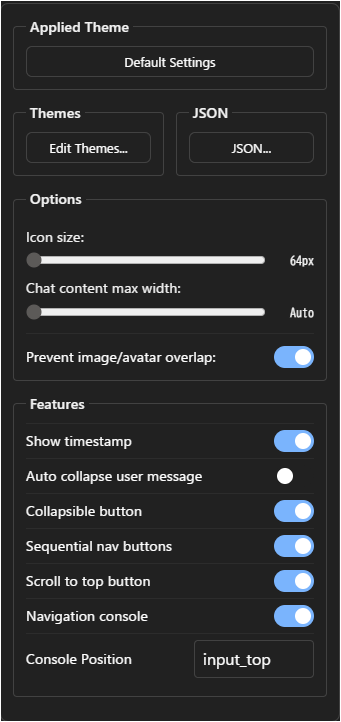
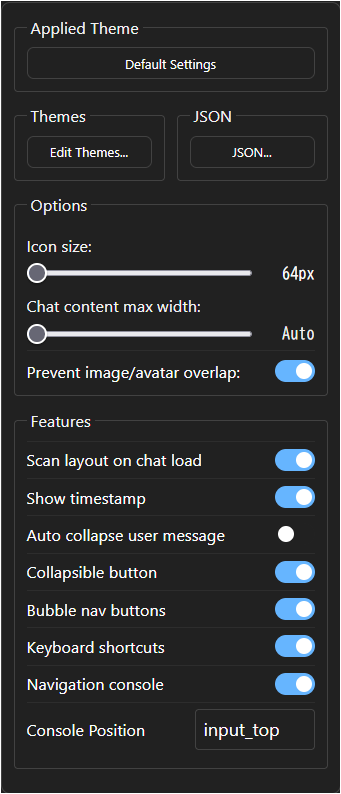
docs: update files for [AIUXC] (Shortcuts / JSON Settings)

diff --git a/docs/AI-UX-Customizer/manual_json.md b/docs/AI-UX-Customizer/manual_json.md
@@ -31,12 +31,18 @@ The following is a sample to illustrate the JSON structure. **Ready-to-use sampl
         "respect_avatar_space": true
       },
       "features": {
-        "collapsible_button": { "enabled": true },
-        "auto_collapse_user_message": { "enabled": false },
-        "bubble_nav_buttons": { "enabled": true },
-        "fixed_nav_console": { "enabled": true, "position": "input_top" },
         "load_full_history_on_chat_load": { "enabled": true },
-        "timestamp": { "enabled": true }
+        "timestamp": { "enabled": true },
+        "collapsible_button": {
+          "enabled": true,
+          "auto_collapse_user_message": { "enabled": false }
+        },
+        "bubble_nav_buttons": { "enabled": true },
+        "fixed_nav_console": {
+          "enabled": true,
+          "position": "input_top",
+          "keyboard_shortcuts": { "enabled": true }
+        }
       },
       "defaultSet": {
         "user": {
@@ -169,12 +175,13 @@ Configure ON/OFF and thresholds for convenient UI improvement features.
 
 | Property Name | Description | Example | Notes/Allowed Values |
 | --- | --- | --- | --- |
-| `auto_collapse_user_message` | **[ChatGPT only]**<br>Automatically collapses user messages that exceed the height threshold upon loading. | `{ "enabled": false }` | `true`/`false`<br>Default is `false`.<br>Requires `collapsible_button` to be enabled. |
+| `load_full_history_on_chat_load` | `ChatGPT` (Firefox only)<br>Enables "layout scan and rescan DOM" on chat load.<br>`Gemini`<br>Enables auto-load full chat history on chat load.  | `{ "enabled": true }` | `true`/`false`<br>`ChatGPT`<br>Automatically scans the chat layout when opening a chat (Firefox only. See notes below.).<br>`Gemini`<br>Automatically loads the entire chat history when opening a chat.  |
+| `timestamp` | `ChatGPT` **[ChatGPT only]**<br>Displays the creation time for each message. | `{ "enabled": true }` | `true`/`false`<br>`ChatGPT` only.<br>This feature is not available for Gemini as it is technically difficult to retrieve timestamps. |
 | `collapsible_button` | Displays a button to collapse messages at the top of each message bubble.  | `{ "enabled": true }` | `true`/`false`<br>Displays on the top-left for assistant and top-right for user.<br>Note: For Gemini, user bubbles have a standard collapse button, so this script does not process user bubbles for Gemini.<br>When this feature is enabled, a button to toggle the collapse state of all messages is displayed to the right of the message input field.  |
+| `collapsible_button.`<br>`auto_collapse_user_message` | **[ChatGPT only]**<br>Automatically collapses user messages that exceed the height threshold upon loading. | `{ "enabled": false }` | `true`/`false`<br>Default is `false`.<br>Requires `collapsible_button` to be enabled. |
 | `bubble_nav_buttons` | Displays navigation buttons (Prev/Next/Top) attached to each message bubble. | `{ "enabled": true }` | `true`/`false`<br>Displays buttons for Previous/Next/Top navigation on the message bubble. |
 | `fixed_nav_console` | Displays an integrated navigation console.  | `{ "enabled": true, "position": "input_top" }` | `true`/`false`<br>Displays a console bar consolidating navigation-related features for efficient message movement.<br>Accepted values for `position`: `"input_top"` (floating above input) or `"header"` (embedded in top bar). Default is `"input_top"`.  |
-| `load_full_history_on_chat_load` | `ChatGPT` (Firefox only)<br>Enables "layout scan and rescan DOM" on chat load.<br>`Gemini`<br>Enables auto-load full chat history on chat load.  | `{ "enabled": true }` | `true`/`false`<br>`ChatGPT`<br>Automatically scans the chat layout when opening a chat (Firefox only. See notes below.).<br>`Gemini`<br>Automatically loads the entire chat history when opening a chat.  |
-| `timestamp` | `ChatGPT` **[ChatGPT only]**<br>Displays the creation time for each message. | `{ "enabled": true }` | `true`/`false`<br>`ChatGPT` (ChatGPT) only.<br>This feature is not available for Gemini as it is technically difficult to retrieve timestamps. |
+| `fixed_nav_console.`<br>`keyboard_shortcuts` | Enables keyboard shortcuts for navigation.<br>**Alt + ↑ / ↓**: Previous / Next message<br>**Alt + Shift + ↑ / ↓**: First / Last message<br>**Alt + J**: Open Jump List<br>**Alt + N**: Input message number | `{ "enabled": true }` | `true`/`false`<br>Default is `true`.<br>Requires `fixed_nav_console` to be enabled. |
 
 ##### Notes about `load_full_history_on_chat_load` (ChatGPT / Firefox-only Option):
 When using Firefox, you may experience a "rubber-banding" or scroll-bouncing effect while scrolling. This is likely caused by layout shifts, where the height of off-screen elements (suspected to be the avatar icons) is calculated late, causing the entire page to reflow.  

diff --git a/docs/AI-UX-Customizer/settings.md b/docs/AI-UX-Customizer/settings.md
@@ -33,8 +33,8 @@ You can access the Settings Panel by clicking the **Settings button** (palette i
 | **[ChatGPT only]**<br>**Show timestamp** | **[ChatGPT only]**<br>Displays the creation time for each message.<br>(This feature is not available for Gemini as it is technically difficult to retrieve timestamps.) |
 | **[ChatGPT only]**<br>**Auto collapse user message** | **[ChatGPT only]**<br>Automatically collapses user messages that exceed the height threshold upon loading.<br>Requires **Collapsible button** to be enabled. |
 | **Collapsible button** | Adds a button to each message to collapse long messages. |
-| **Sequential nav buttons** | Adds buttons to each message to jump to the next/previous message by the same speaker (user/assistant). |
-| **Scroll to top button** | Adds a button to each message to scroll to the top of that message. |
+| **Bubble nav buttons** | Enables navigation buttons (Prev/Next/Top) attached to each message. |
+| **Keyboard shortcuts** | Enables keyboard shortcuts for navigation.<br>**Alt + ↑ / ↓**: Previous / Next message<br>**Alt + Shift + ↑ / ↓**: First / Last message<br>**Alt + J**: Open Jump List<br>**Alt + N**: Input message number<br>Requires **Navigation console** to be enabled. |
 | **Navigation console** | Displays an operation panel above the text input field for quick navigation between messages. |
 | **Console Position** | Choose where to display the navigation console.<br>**Input Top**: Floating above the input area (Default).<br>**Header**: Embedded in the top toolbar. |
 

diff --git a/docs/AI-UX-Customizer/README.md b/docs/AI-UX-Customizer/README.md
@@ -37,6 +37,7 @@ It also includes convenient UI enhancements such as **message collapsing**, **a 
   - **Per-Message Navigation**: Adds buttons to each message to jump to the next/previous message by the same speaker (user/assistant) or scroll to the top of the current message.
   - **Collapsible Messages**: Adds a button to collapse long messages, and includes a "Bulk Collapse/Expand" button in the navigation console.
   - **[ChatGPT only] Auto-collapse User Messages**: Automatically collapses long user queries upon loading to save screen space.
+  - **Keyboard Shortcuts**: Efficiently navigate messages (`Alt + ↑/↓`), toggle the Jump List (`Alt + J`), and access message number input (`Alt + N`) without leaving the keyboard.
 
 - **Utility & Platform-Specific**
   - **Responsive Settings UI**: The Settings Panel and Theme Editor automatically adjust their size and layout to fit smaller screens.
